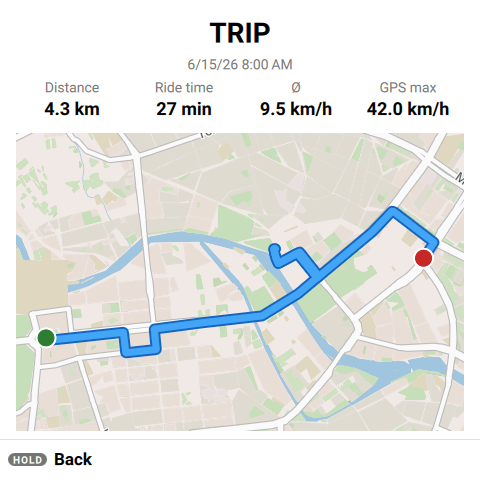
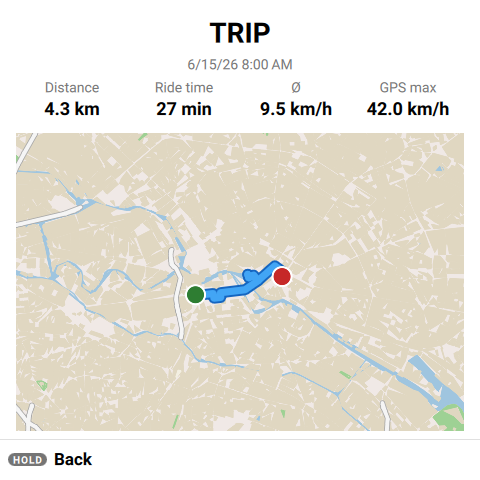
fix: show released trip map in 1.4 news

diff --git a/_news/de/librescoot-1-4.md b/_news/de/librescoot-1-4.md
@@ -51,7 +51,7 @@ Auf Wunsch öffnet sich die Sitzbank beim Entsperren automatisch, auch mit einer
 
 ## Fahrtenbuch und Verbrauchsübersicht
 
-{% include news-screenshot.html src="/images/news/librescoot-1-4-trip-de.png" align="right" alt="Fahrtdetails mit Beispieldaten und aufgezeichneter Strecke" caption='Fahrtdetails mit Beispieldaten. Der verbesserte Kartenausschnitt ist ab Dashboard 1.24.2 verfügbar und noch nicht in Firmware 1.4.1 enthalten. Kartendaten © <a href="https://www.openstreetmap.org/copyright">OpenStreetMap-Mitwirkende</a>.' %}
+{% include news-screenshot.html src="/images/news/librescoot-1-4-trip-de.png" align="right" alt="Fahrtdetails mit Beispieldaten und aufgezeichneter Strecke" caption='Fahrtdetails mit Beispieldaten. Start- und Endmarkierung sind ab Dashboard 1.24.1 verfügbar. Kartendaten © <a href="https://www.openstreetmap.org/copyright">OpenStreetMap-Mitwirkende</a>.' %}
 
 Das Fahrtenbuch speichert Strecke, Dauer und GPS-Verlauf auf dem Roller. Unter Fahrtenverlauf lassen sich abgeschlossene Fahrten mit Strecke, Fahrzeit und Durchschnittsgeschwindigkeit direkt am Tacho ansehen. Aufgezeichnete GPS-Spuren können auf der Karte angezeigt werden. Die Aufbewahrung lässt sich nach Alter, Fahrtenzahl oder Speichergröße begrenzen; die automatische Löschung kann auch ausgeschaltet werden. Kurze Strecken unter 100 Metern laut Kilometerzähler werden nicht als abgeschlossene Fahrt gespeichert.
 

diff --git a/_news/en/librescoot-1-4.md b/_news/en/librescoot-1-4.md
@@ -51,7 +51,7 @@ An optional setting can open the seatbox automatically when the scooter is unloc
 
 ## Trip log and energy overview
 
-{% include news-screenshot.html src="/images/news/librescoot-1-4-trip-en.png" align="right" alt="Trip details with example data and a recorded route" caption='Trip details with example data. Improved map framing is available from dashboard 1.24.2 and is not included in firmware 1.4.1. Map data © <a href="https://www.openstreetmap.org/copyright">OpenStreetMap contributors</a>.' %}
+{% include news-screenshot.html src="/images/news/librescoot-1-4-trip-en.png" align="right" alt="Trip details with example data and a recorded route" caption='Trip details with example data. Start and end markers are available from dashboard 1.24.1. Map data © <a href="https://www.openstreetmap.org/copyright">OpenStreetMap contributors</a>.' %}
 
 The trip log saves distance, duration and GPS tracks on the scooter. Under Trip history, you can view completed rides with distance, riding time and average speed directly on the dashboard. Recorded GPS tracks can be shown on the map. Retention can be limited by age, number of trips or storage size, or automatic deletion can be turned off. Short distances below 100 metres on the odometer are not saved as completed trips.
 
